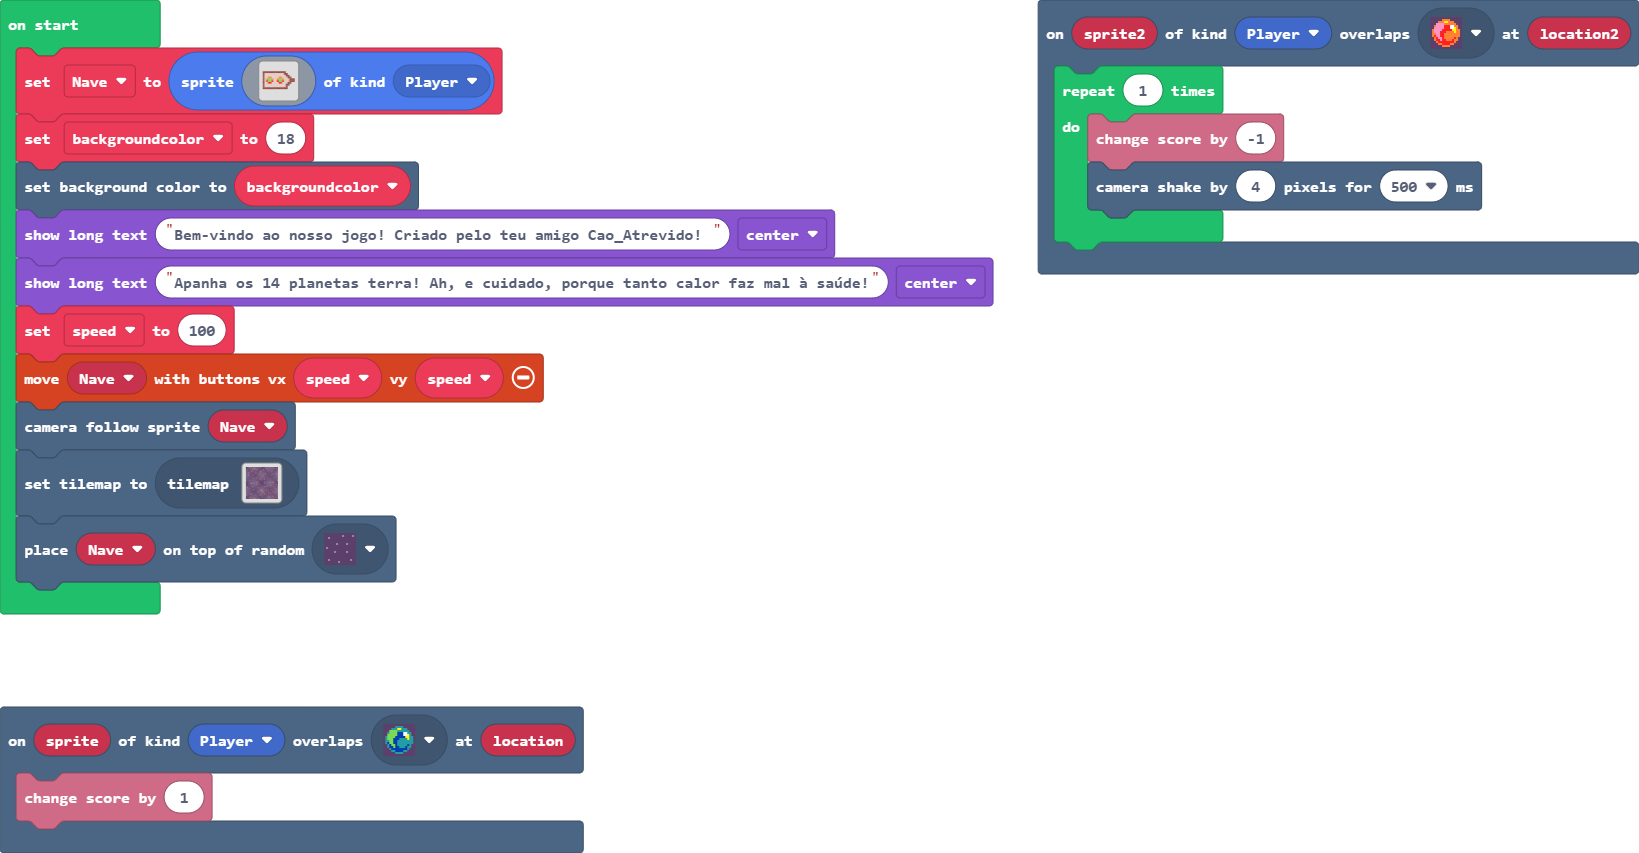
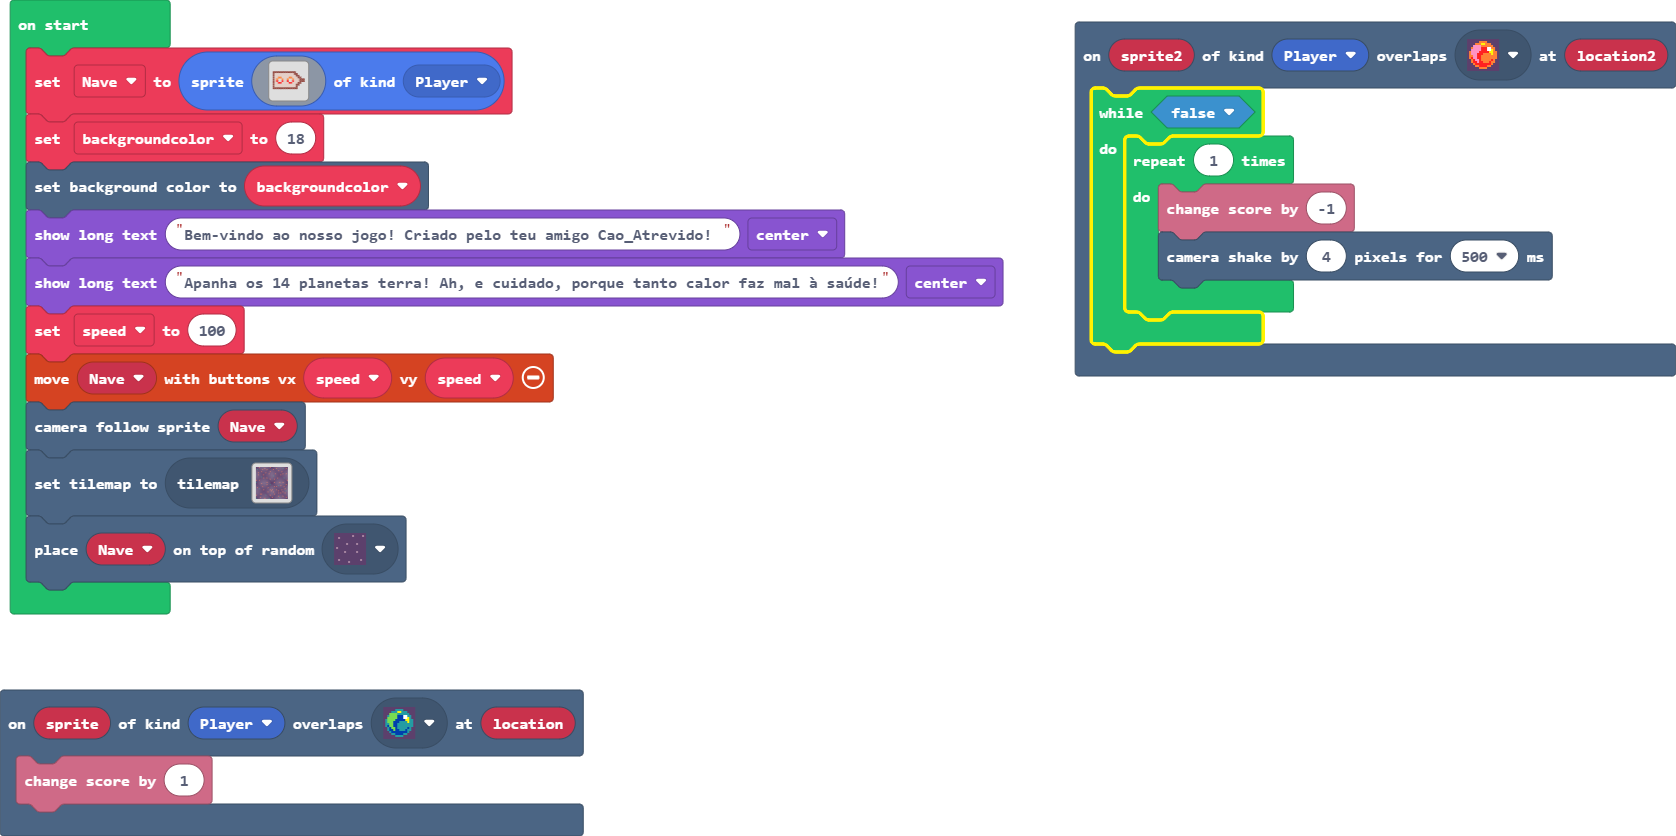
Bug Fixes

Changed region(s): [[0.0, 0.0, 1.0, 0.7464], [0.0, 0.8086, 0.3734, 0.9641], [0.3423, 0.9641, 0.3734, 1.0]]

diff --git a/main.ts b/main.ts
@@ -2,9 +2,11 @@ scene.onOverlapTile(SpriteKind.Player, assets.tile`myTile1`, function (sprite, l
     info.changeScoreBy(1)
 })
 scene.onOverlapTile(SpriteKind.Player, assets.tile`myTile2`, function (sprite2, location2) {
-    for (let index = 0; index < 1; index++) {
-        info.changeScoreBy(-1)
-        scene.cameraShake(4, 500)
+    while (false) {
+        for (let index = 0; index < 1; index++) {
+            info.changeScoreBy(-1)
+            scene.cameraShake(4, 500)
+        }
     }
 })
 let Nave = sprites.create(img`
@@ -15,8 +17,8 @@ let Nave = sprites.create(img`
     e d d d d d d d d d d d e e . . . . 
     e d d d d d d d d d d d d e e . . . 
     e d d 4 4 d d d d 4 4 d d d e e . . 
-    e d 4 7 7 4 d d 4 7 7 4 d d d e e e 
-    e d 2 7 7 2 d d 2 7 7 2 d d d e e e 
+    e d 4 . . 4 d d 4 . . 4 d d d e e e 
+    e d 2 . . 2 d d 2 . . 2 d d d e e e 
     e d d 2 2 d d d d 2 2 d d d e e . . 
     e d d d d d d d d d d d d e e . . . 
     e d d d d d d d d d d d d e . . . . 

diff --git a/main.py b/main.py
@@ -7,9 +7,10 @@ scene.on_overlap_tile(SpriteKind.player,
     on_overlap_tile)
 
 def on_overlap_tile2(sprite2, location2):
-    for index in range(1):
-        info.change_score_by(-1)
-        scene.camera_shake(4, 500)
+    while False:
+        for index in range(1):
+            info.change_score_by(-1)
+            scene.camera_shake(4, 500)
 scene.on_overlap_tile(SpriteKind.player,
     assets.tile("""
         myTile2
@@ -24,8 +25,8 @@ Nave = sprites.create(img("""
             e d d d d d d d d d d d e e . . . . 
             e d d d d d d d d d d d d e e . . . 
             e d d 4 4 d d d d 4 4 d d d e e . . 
-            e d 4 7 7 4 d d 4 7 7 4 d d d e e e 
-            e d 2 7 7 2 d d 2 7 7 2 d d d e e e 
+            e d 4 . . 4 d d 4 . . 4 d d d e e e 
+            e d 2 . . 2 d d 2 . . 2 d d d e e e 
             e d d 2 2 d d d d 2 2 d d d e e . . 
             e d d d d d d d d d d d d e e . . . 
             e d d d d d d d d d d d d e . . . . 
